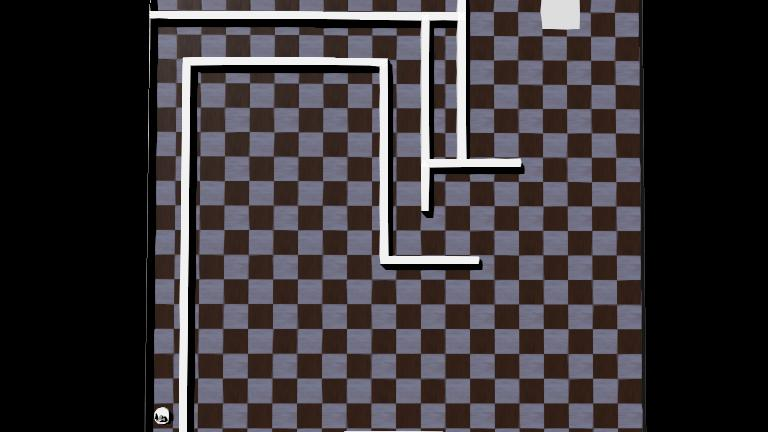
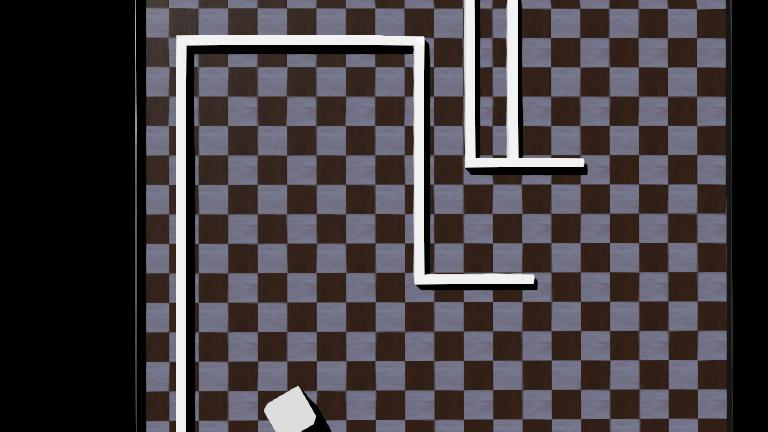
actualizacion en seguimiento de trayectoria

diff --git a/Webots/controllers/my_controller_Pololu3pi/my_controller_Pololu3pi.py b/Webots/controllers/my_controller_Pololu3pi/my_controller_Pololu3pi.py
@@ -696,7 +696,7 @@ class Slave(Robot):
         #print(" *-*-*-*-*-* Determinar espacio de trabajo *-*-*-*-*-*")
         cant_columnas = 0
         cant_filas = 0
-        self.factorWS = 10 # cada recuadro del mapa es de dimensiones (factor x factor)
+        self.factorWS = 9 # cada recuadro del mapa es de dimensiones (factor x factor)
         """
         d_sensors = [[self.Pared_x_ds0,self.Pared_y_ds0],
                      [self.Pared_x_ds1,self.Pared_y_ds1],
@@ -946,9 +946,9 @@ class Slave(Robot):
         v0 = 500
         alpha = 50 #%0.5;50
         # PID orientación
-        kpO = 15 #15
-        kiO = 0.1 
-        kdO = 0.1 #1
+        kpO = 0.1 #15
+        kiO = 0.1
+        kdO = 0.005 #1
         EO = 0
         eO_1 = 0
         eO = 1.0
@@ -976,8 +976,13 @@ class Slave(Robot):
             if contador < len(xGoal):
                 #xg = self.ruta_optima[contador]
                 #yg = self.ruta_optima[contador]
-                xg = xGoal[contador]-int(-self.min_val_x)
-                yg = yGoal[contador]-int(-self.min_val_y)
+                if contador == len(xGoal)-1:
+                    xg = xGoal[contador]-int(-self.min_val_x)-0.5
+                    yg = yGoal[contador]-int(-self.min_val_y)-0.5
+                else:
+                    xg = xGoal[contador]-int(-self.min_val_x)
+                    yg = yGoal[contador]-int(-self.min_val_y)
+
 
                 coords = [xg,yg]
                 #disp(coords)
